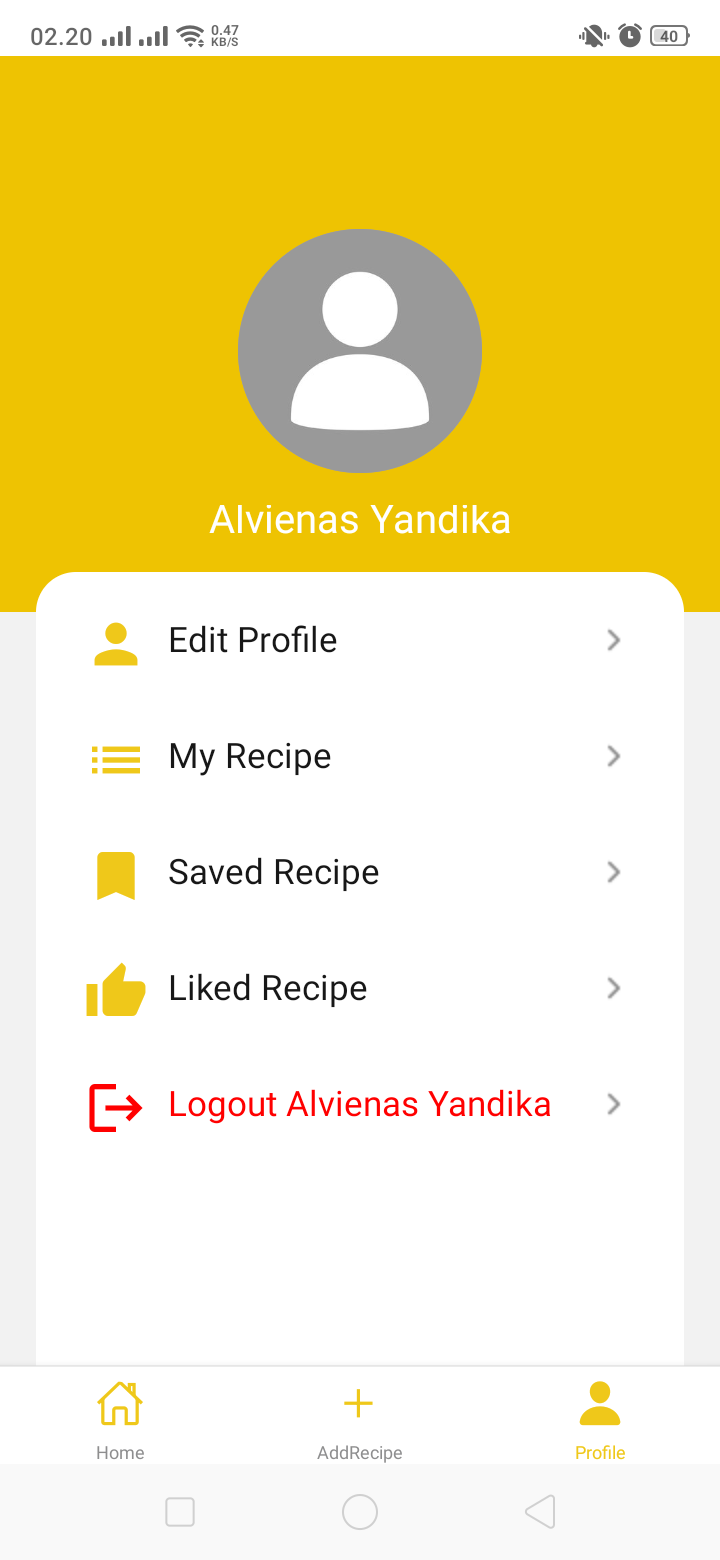
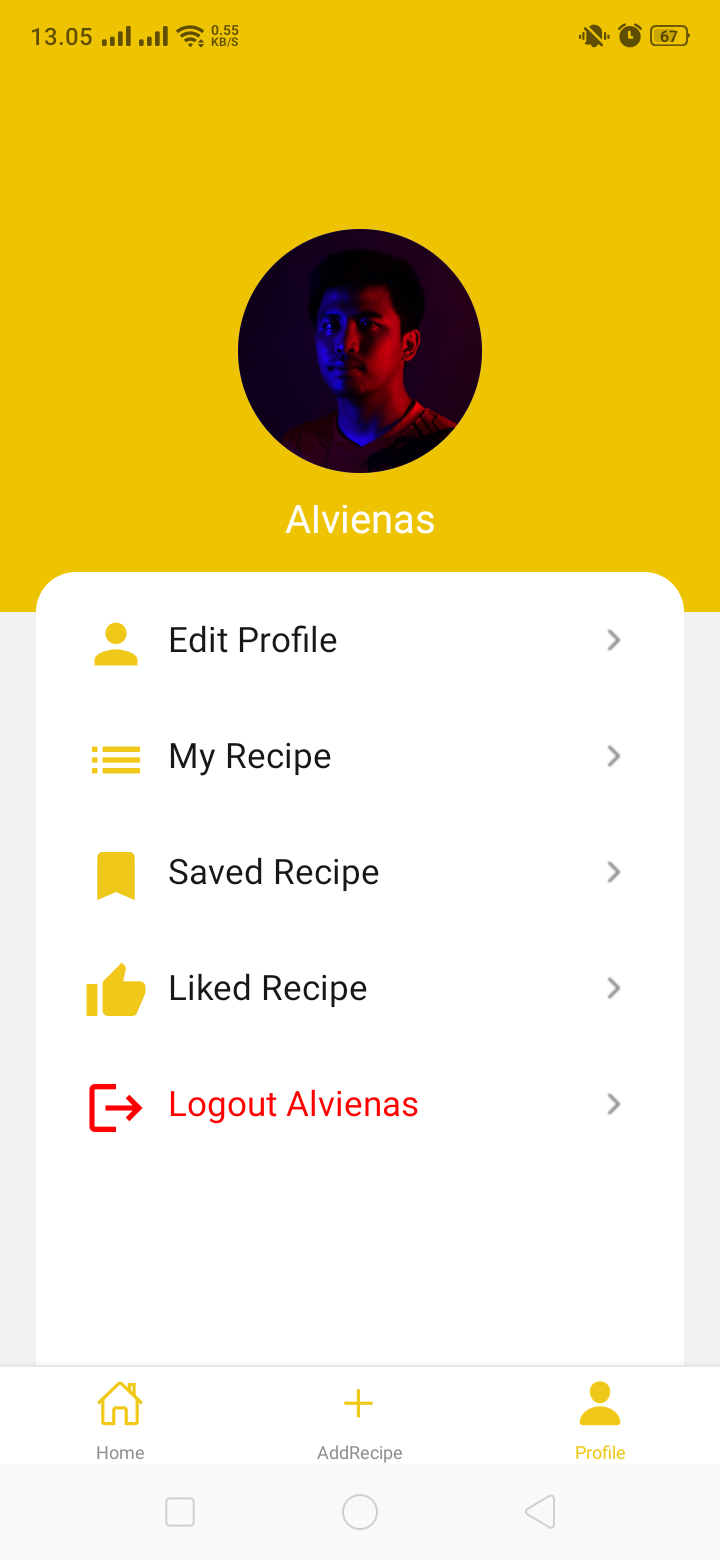
edit profile

Changed region(s): [[0.3056, 0.1231, 0.7028, 0.3385], [0.0, 0.0, 1.0, 0.0615], [0.6111, 0.6769, 0.7639, 0.7385]]

diff --git a/app/redux/actions/recipeAction.js b/app/redux/actions/recipeAction.js
@@ -4,7 +4,7 @@ import { Alert } from "react-native";
 
 export const getRecipe = (setRecipe) => async (dispatch) => {
   try {
-    const response = await axios.get(`http://192.168.1.5:7474/recipes`);
+    const response = await axios.get(`https://team-project-kelompok1-pijar-backend.vercel.app/recipes`);
     setRecipe(response.data.data);
     const tokenGet = await AsyncStorage.getItem('token')
     console.log("Token user: " + tokenGet)
@@ -18,7 +18,7 @@ export const getRecipe = (setRecipe) => async (dispatch) => {
 
 export const getDetailRecepe = (setRecipe, id) => async (dispatch) => {
   try {
-    const response = await axios.get(`http://192.168.1.5:7474/recipes/${id}`);
+    const response = await axios.get(`https://team-project-kelompok1-pijar-backend.vercel.app/recipes/${id}`);
     setRecipe(response.data.data[0]);
     console.log(response.data.data[0]);
     dispatch({ type: "GET_DETAIL_RECEPE", payload: "success" });
@@ -38,7 +38,7 @@ export const createRecipe = (data, recipes_photo) => async (dispatch) => {
 
     // console.log(FormData.append("recipes_title", data.recipes_title));
     console.log(data);
-    const response = await axios.post(`http://192.168.1.5:7474/recipes`, formData, {
+    const response = await axios.post(`https://team-project-kelompok1-pijar-backend.vercel.app/recipes`, formData, {
       headers: {
         "Content-Type": "multipart/form-data",
       },

diff --git a/app/profileuser.js b/app/profileuser.js
@@ -16,7 +16,7 @@ const Profile = ({ onPressLike,  onPressMyRecipe, onPressSaved, handleLogout }) 
     const getData = async () => {
       try {
         const getid = await AsyncStorage.getItem("users_id_profile");
-        const response = await axios.get(`http://192.168.1.5:7474/users/profile/${getid}`);
+        const response = await axios.get(`https://team-project-kelompok1-pijar-backend.vercel.app/users/profile/${getid}`);
 
         const userData = response.data.data[0];
         setUsers(userData);
@@ -38,7 +38,7 @@ const Profile = ({ onPressLike,  onPressMyRecipe, onPressSaved, handleLogout }) 
     <SafeAreaView style={{ backgroundColor: "#EEC302", height: 306 }}>
       <NativeBaseProvider>
         <Stack space={4} w="100%" alignItems="center" justifyContent="center" height="100%" marginTop={10}>
-          <Avatar w={'34%'} h={'40%'} source={defaultImg} />
+        <Avatar w={'34%'} h={'40%'} source={{ uri: users.users_photo }} />
           <Text style={{ fontSize: 22, color: 'white' }}>{users.users_name}</Text>
         </Stack>
         <View backgroundColor={'white'} h='200%' w='90%' paddingLeft={6} marginTop={'-60'} borderRadius={20} marginLeft={'5%'}>

diff --git a/app/saved.js b/app/saved.js
@@ -16,7 +16,7 @@ const Saved = () => {
         const fetchData = async () => {
             try {
                 const getid = await AsyncStorage.getItem("users_id_profile");
-                const response = await axios.get(`http://192.168.1.5:7474/bookmarks/${getid}`);
+                const response = await axios.get(`https://team-project-kelompok1-pijar-backend.vercel.app/bookmarks/${getid}`);
                 setSaved(response.data.data);
             } catch (error) {
                 console.log(error);
@@ -28,7 +28,7 @@ const Saved = () => {
 
     const handleDeleteSave = (bookmarks_id) => {
         axios
-            .delete(`http://192.168.1.5:7474/bookmarks/${bookmarks_id}`)
+            .delete(`https://team-project-kelompok1-pijar-backend.vercel.app/bookmarks/${bookmarks_id}`)
             .then((res) => {
                 alert(
                     "Unsave this recipe",

diff --git a/app/redux/actions/userAction.js b/app/redux/actions/userAction.js
@@ -9,7 +9,7 @@ import { useNavigation } from "expo-router";
 export const userRegister = (data, navigation) => async (dispatch) => {
     // const navigate = useNavigation();
     try {
-        const response = await axios.post(`http://192.168.1.5:7474/users/register`, data);
+        const response = await axios.post(`https://team-project-kelompok1-pijar-backend.vercel.app/users/register`, data);
 
         if (response.status === 201) {
             Alert.alert(
@@ -49,7 +49,7 @@ export const userRegister = (data, navigation) => async (dispatch) => {
 
 export const loginUser = (data, navigation) => async (dispatch) => {
     try {
-        const response = await axios.post(`http://192.168.1.5:7474/users/login`, data);
+        const response = await axios.post(`https://team-project-kelompok1-pijar-backend.vercel.app/users/login`, data);
 
         console.log(response.data.data);
 

diff --git a/app/likeds.js b/app/likeds.js
@@ -17,7 +17,7 @@ const likeds = () => {
         const fetchData = async () => {
             try {
                 const getid = await AsyncStorage.getItem("users_id_profile");
-                const response = await axios.get(`http://192.168.1.5:7474/likeds/${getid}`);
+                const response = await axios.get(`https://team-project-kelompok1-pijar-backend.vercel.app/likeds/${getid}`);
                 setLikeds(response.data.data);
             } catch (error) {
                 console.log(error);
@@ -29,7 +29,7 @@ const likeds = () => {
 
     const handleDeleteLike = (likeds_id) => {
         axios
-            .delete(`http://192.168.1.5:7474/likeds/${likeds_id}`)
+            .delete(`https://team-project-kelompok1-pijar-backend.vercel.app/likeds/${likeds_id}`)
             .then((res) => {
                 alert(
                     "Unlike this recipe",

diff --git a/app/detailresep.js b/app/detailresep.js
@@ -100,7 +100,7 @@ const detailresep = () => {
             users_id: dataUser,
         };
         console.log(data);
-        axios.post("http://192.168.1.5:7474/likeds", data)
+        axios.post("https://team-project-kelompok1-pijar-backend.vercel.app/likeds", data)
         .then((res) => {
             if (res.data.statusCode === 201) {
                 alert("You like this recipe");
@@ -118,7 +118,7 @@ const detailresep = () => {
             users_id: dataUser,
         };
         console.log(data);
-        axios.post("http://192.168.1.5:7474/bookmarks", data).then((res) => {
+        axios.post("https://team-project-kelompok1-pijar-backend.vercel.app/bookmarks", data).then((res) => {
             if (res.data.statusCode === 201) {
                 alert("Save Recipe Success");
             } else if (res.data.message === "Bookmarks Already") {

diff --git a/app/myrecipe.js b/app/myrecipe.js
@@ -19,7 +19,7 @@ const MyRecipe = () => {
         const fetchData = async () => {
             try {
                 const getid = await AsyncStorage.getItem("users_id_profile");
-                const response = await axios.get(`http://192.168.1.5:7474/recipes/users/${getid}`);
+                const response = await axios.get(`https://team-project-kelompok1-pijar-backend.vercel.app/recipes/users/${getid}`);
                 setRecipes(response.data.data);
             } catch (error) {
                 console.log(error);

diff --git a/app/addrecipe.js b/app/addrecipe.js
@@ -45,7 +45,7 @@ const AddRecipe = () => {
                     type: "image/jpeg"
                 })
             }
-            const res = await axios.post("http://192.168.1.5:7474/recipes", formData,
+            const res = await axios.post("https://team-project-kelompok1-pijar-backend.vercel.app/recipes", formData,
                 {
                     headers: {
                         "Content-Type": "multipart/form-data",
